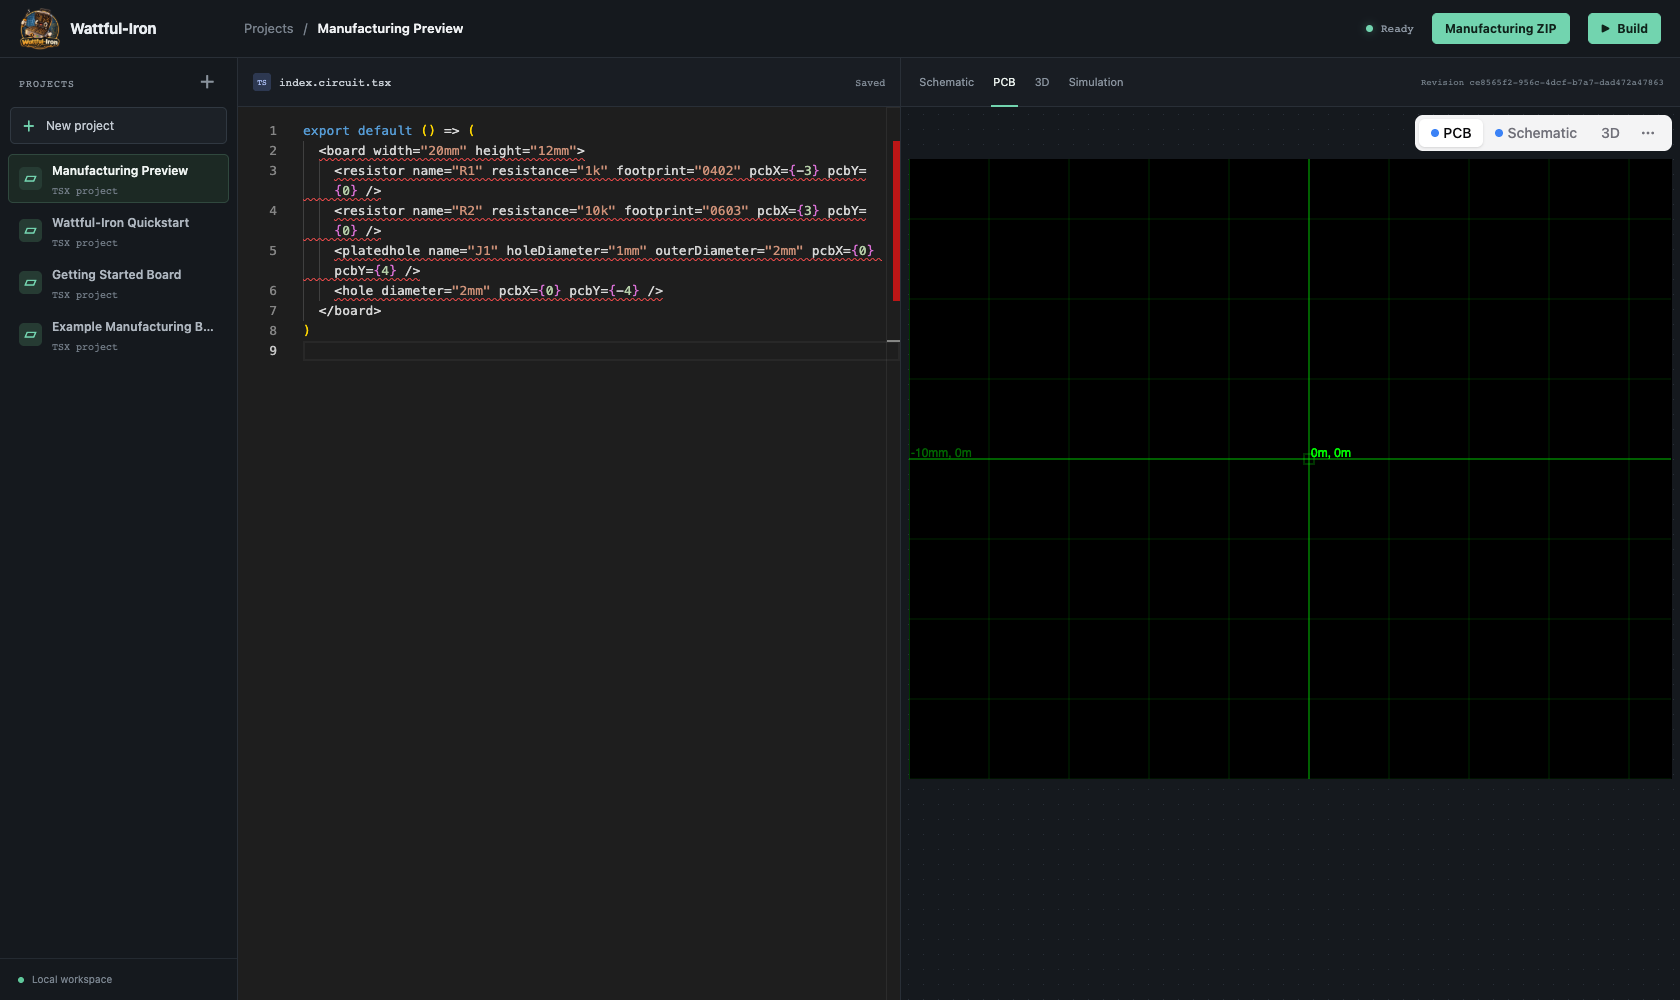
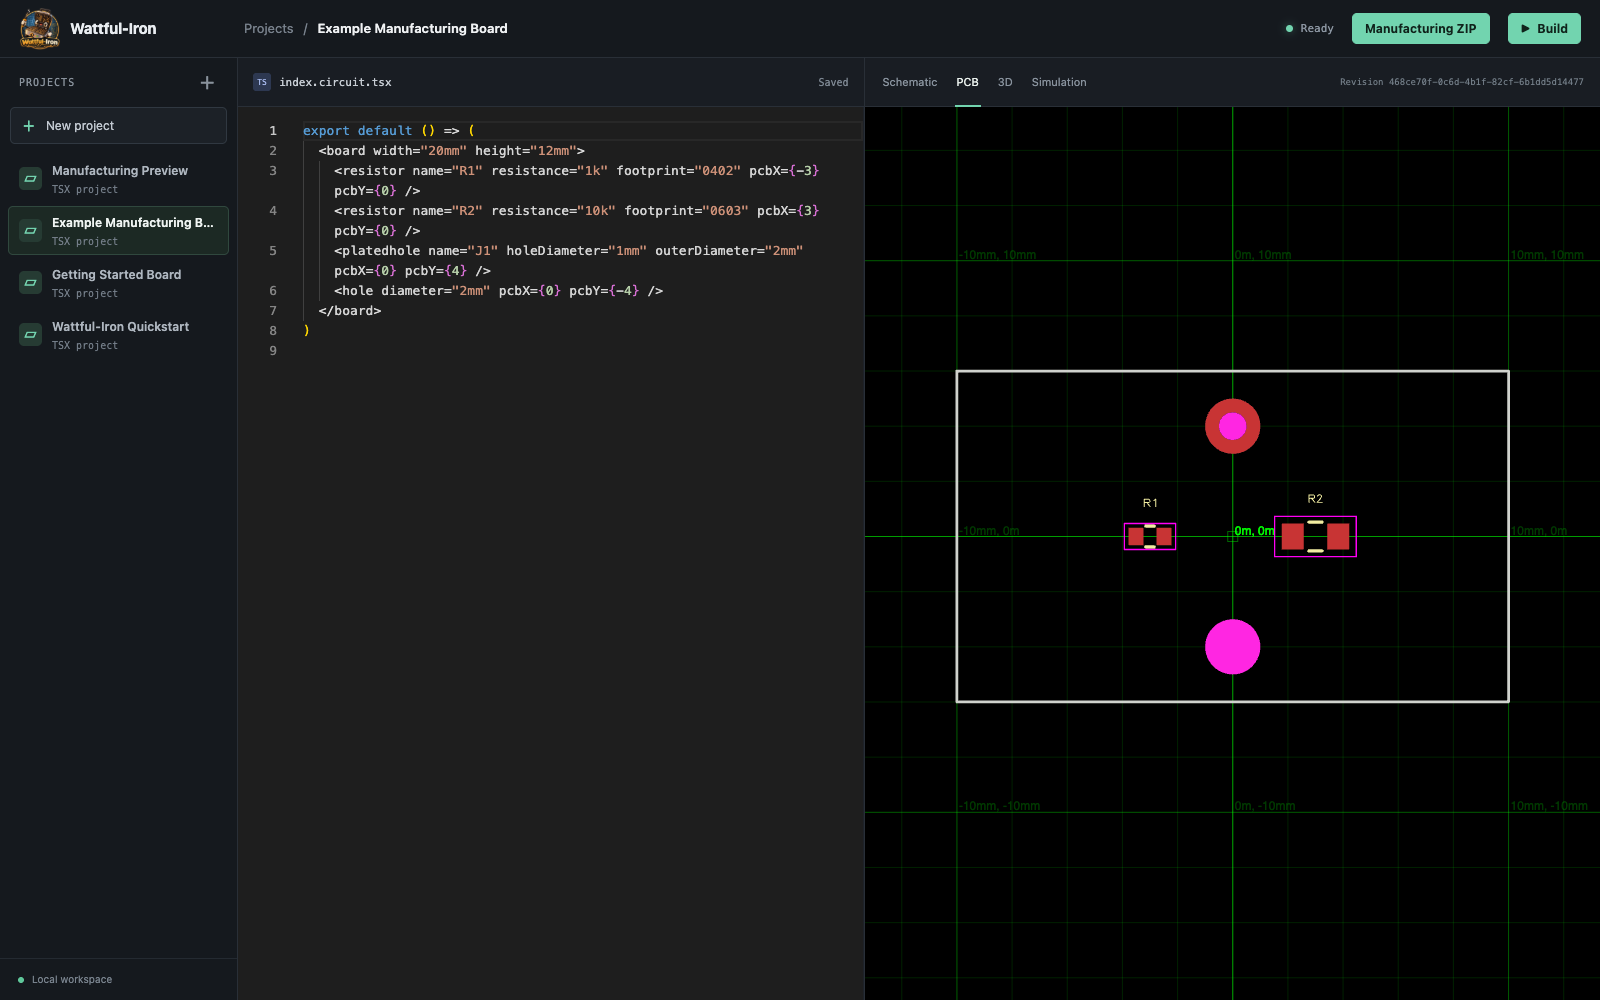
fix: render PCB previews with circuit data

diff --git a/web/src/App.tsx b/web/src/App.tsx
@@ -1,4 +1,4 @@
-import { lazy, Suspense, useCallback, useEffect, useRef, useState } from 'react'
+import { lazy, Suspense, useCallback, useEffect, useLayoutEffect, useRef, useState } from 'react'
 import Editor from '@monaco-editor/react'
 import { configureMonaco } from './configureMonaco'
 import {
@@ -28,6 +28,8 @@ const views: Array<{ kind: PreviewKind | 'simulation'; label: string; tab: 'sche
 
 const initialBuild: BuildStatus = { status: 'idle' }
 const CircuitJsonPreview = lazy(() => import('@tscircuit/runframe').then((module) => ({ default: module.CircuitJsonPreview })))
+const PCBViewer = lazy(() => import('@tscircuit/pcb-viewer').then((module) => ({ default: module.PCBViewer })))
+type PcbCircuitJson = NonNullable<Parameters<typeof PCBViewer>[0]['circuitJson']>
 
 export default function App() {
   const [projects, setProjects] = useState<Project[]>([])
@@ -273,7 +275,7 @@ export default function App() {
           </div>
           <div className="preview-content">
             {build.status === 'failed' && <div className="build-errors" role="alert"><div className="error-title"><span>!</span> Build failed</div>{build.diagnostics?.length ? build.diagnostics.map((diagnostic, index) => { const path = diagnostic.path || diagnostic.file; return <div className="diagnostic" key={`${path}-${diagnostic.line}-${index}`}><strong>{path}{diagnostic.line ? `:${diagnostic.line}` : ''}</strong><span>{diagnostic.message}</span></div> }) : <p>Check the source and build output for details.</p>}</div>}
-            {view === 'simulation' ? <SimulationPanel simulation={simulation} /> : preview ? <Suspense fallback={<div className="preview-loading">Loading tscircuit preview…</div>}><CircuitJsonPreview className="circuit-preview" key={`${view}-${build.revision || revision}`} circuitJson={preview} defaultActiveTab={view === '3d' ? 'cad' : view} showCodeTab={false} showImportAndFormatButtons={false} /></Suspense> : <div className="preview-placeholder">
+            {view === 'simulation' ? <SimulationPanel simulation={simulation} /> : preview ? view === 'pcb' ? <Suspense fallback={<div className="preview-loading">Loading PCB preview…</div>}><PcbPreview circuitJson={preview as PcbCircuitJson} /></Suspense> : <Suspense fallback={<div className="preview-loading">Loading tscircuit preview…</div>}><CircuitJsonPreview className="circuit-preview" key={`${view}-${build.revision || revision}`} circuitJson={preview} defaultActiveTab={view === '3d' ? 'cad' : view} showCodeTab={false} showImportAndFormatButtons={false} /></Suspense> : <div className="preview-placeholder">
               <div className="placeholder-board"><span className="board-edge edge-a" /><span className="board-edge edge-b" /><span className="board-chip chip-a" /><span className="board-chip chip-b" /><span className="board-pad pad-a" /><span className="board-pad pad-b" /><span className="board-route route-a" /><span className="board-route route-b" /></div>
               <h2>{project ? build.status === 'failed' ? 'Last good preview is unavailable' : 'Waiting for first build' : 'Your design workspace'}</h2>
               <p>{project ? build.status === 'failed' ? 'Fix the source and build again to update this view.' : 'Build the project to generate a schematic, PCB layout, and 3D preview.' : 'Create a project to see your design take shape.'}</p>
@@ -286,6 +288,27 @@ export default function App() {
       {error && <div className="toast-error" role="alert"><span>{error}</span>{error.includes('changed on disk') || error.includes('changed outside') ? <button className="reload-button" onClick={reloadFile}>Reload file</button> : null}<button aria-label="Dismiss error" onClick={() => setError('')}>×</button></div>}
     </main>
   )
+}
+
+function PcbPreview({ circuitJson }: { circuitJson: PcbCircuitJson }) {
+  const containerRef = useRef<HTMLDivElement>(null)
+  const [height, setHeight] = useState(620)
+
+  useLayoutEffect(() => {
+    const container = containerRef.current
+    if (!container) return
+    const updateHeight = () => setHeight(Math.min(Math.max(container.clientHeight, 620), window.innerHeight))
+    updateHeight()
+    const observer = typeof ResizeObserver === 'undefined' ? null : new ResizeObserver(updateHeight)
+    observer?.observe(container)
+    window.addEventListener('resize', updateHeight)
+    return () => {
+      observer?.disconnect()
+      window.removeEventListener('resize', updateHeight)
+    }
+  }, [])
+
+  return <div ref={containerRef} className="pcb-preview"><PCBViewer circuitJson={circuitJson} height={height} /></div>
 }
 
 function SimulationPanel({ simulation }: { simulation: Simulation | null }) {

diff --git a/web/test/App.test.tsx b/web/test/App.test.tsx
@@ -1,5 +1,5 @@
 import { beforeEach, describe, expect, it, vi } from 'vitest'
-import { fireEvent, render, screen, waitFor } from '@testing-library/react'
+import { cleanup, fireEvent, render, screen, waitFor } from '@testing-library/react'
 import App from '../src/App'
 
 const api = vi.hoisted(() => ({
@@ -23,10 +23,14 @@ vi.mock('@monaco-editor/react', () => ({
 vi.mock('@tscircuit/runframe', () => ({
   CircuitJsonPreview: ({ className }: { className?: string }) => <div className={className} data-testid="circuit-preview">Circuit JSON preview</div>,
 }))
+vi.mock('@tscircuit/pcb-viewer', () => ({
+  PCBViewer: ({ circuitJson }: { circuitJson: Array<{ type: string }> }) => <div data-testid="pcb-viewer" data-circuit-types={circuitJson.map((item) => item.type).join(',')} />,
+}))
 
 const existingProject = { id: 'led-1', name: 'LED Board', entrypoint: 'index.tsx', revision: 'rev-1' }
 
 beforeEach(() => {
+  cleanup()
   vi.clearAllMocks()
   api.listProjects.mockResolvedValue([existingProject])
   api.getProject.mockResolvedValue(existingProject)
@@ -48,6 +52,16 @@ describe('workbench', () => {
     expect(screen.getByRole('tab', { name: 'Schematic' })).toBeInTheDocument()
     expect(screen.getByRole('tab', { name: 'PCB' })).toBeInTheDocument()
     expect(screen.getByRole('tab', { name: '3D' })).toBeInTheDocument()
+  })
+
+  it('passes built circuit data into the PCB viewer', async () => {
+    api.getPreview.mockResolvedValue({ kind: 'pcb', revision: 'rev-1', circuitJson: [{ type: 'pcb_board' }, { type: 'pcb_component' }] })
+
+    render(<App />)
+    fireEvent.click(await screen.findByRole('button', { name: /LED Board/ }))
+    fireEvent.click(screen.getByRole('tab', { name: 'PCB' }))
+
+    expect(await screen.findByTestId('pcb-viewer')).toHaveAttribute('data-circuit-types', 'pcb_board,pcb_component')
   })
 
   it('creates a project from the explorer and opens its entry file', async () => {

diff --git a/web/src/styles.css b/web/src/styles.css
@@ -84,6 +84,7 @@ button { color: inherit; cursor: pointer; }
 .preview-content { position: relative; flex: 1; min-height: 0; overflow: hidden; background-color: #15191e; background-image: radial-gradient(#293039 0.65px, transparent 0.65px); background-size: 15px 15px; }
 .preview-content > div { height: 100%; }
 .circuit-preview [role="tablist"] { display: none; }
+.pcb-preview { min-height: 620px; height: 100%; overflow: hidden; }
 .preview-loading { display: grid; height: 100%; place-items: center; color: #87918c; font: 11px var(--mono); }
 .simulation-empty { display: flex; height: 100%; flex-direction: column; align-items: center; justify-content: center; padding: 28px; color: #aeb9c2; text-align: center; }
 .simulation-empty h2,.simulation-heading h2 { margin: 0 0 9px; color: #d7e0e6; font-size: 13px; }

diff --git a/docs/workbench-howtos.md b/docs/workbench-howtos.md
@@ -32,12 +32,10 @@ demand. See [implemented simulation scope](architecture.md#implemented-in-this-s
 ## Inspect a PCB preview
 
 Select **PCB** after the build reaches **Ready**. The viewer includes layer,
-routing, bounds, and measurement controls. In the screenshot below, the
-example build's Circuit JSON contains two PCB components, but the browser
-viewer rendered only its grid. Inspect the actual preview before using it to
-make placement or fabrication decisions.
+routing, bounds, and measurement controls. The manufacturing example shows its
+board outline, two placed components, plated hole, and non-plated hole.
 
-![PCB preview showing the grid in the local browser run](images/workbench-pcb.png)
+![PCB preview showing the manufacturing example board and components](images/workbench-pcb.png)
 
 ## Download manufacturing files
 
